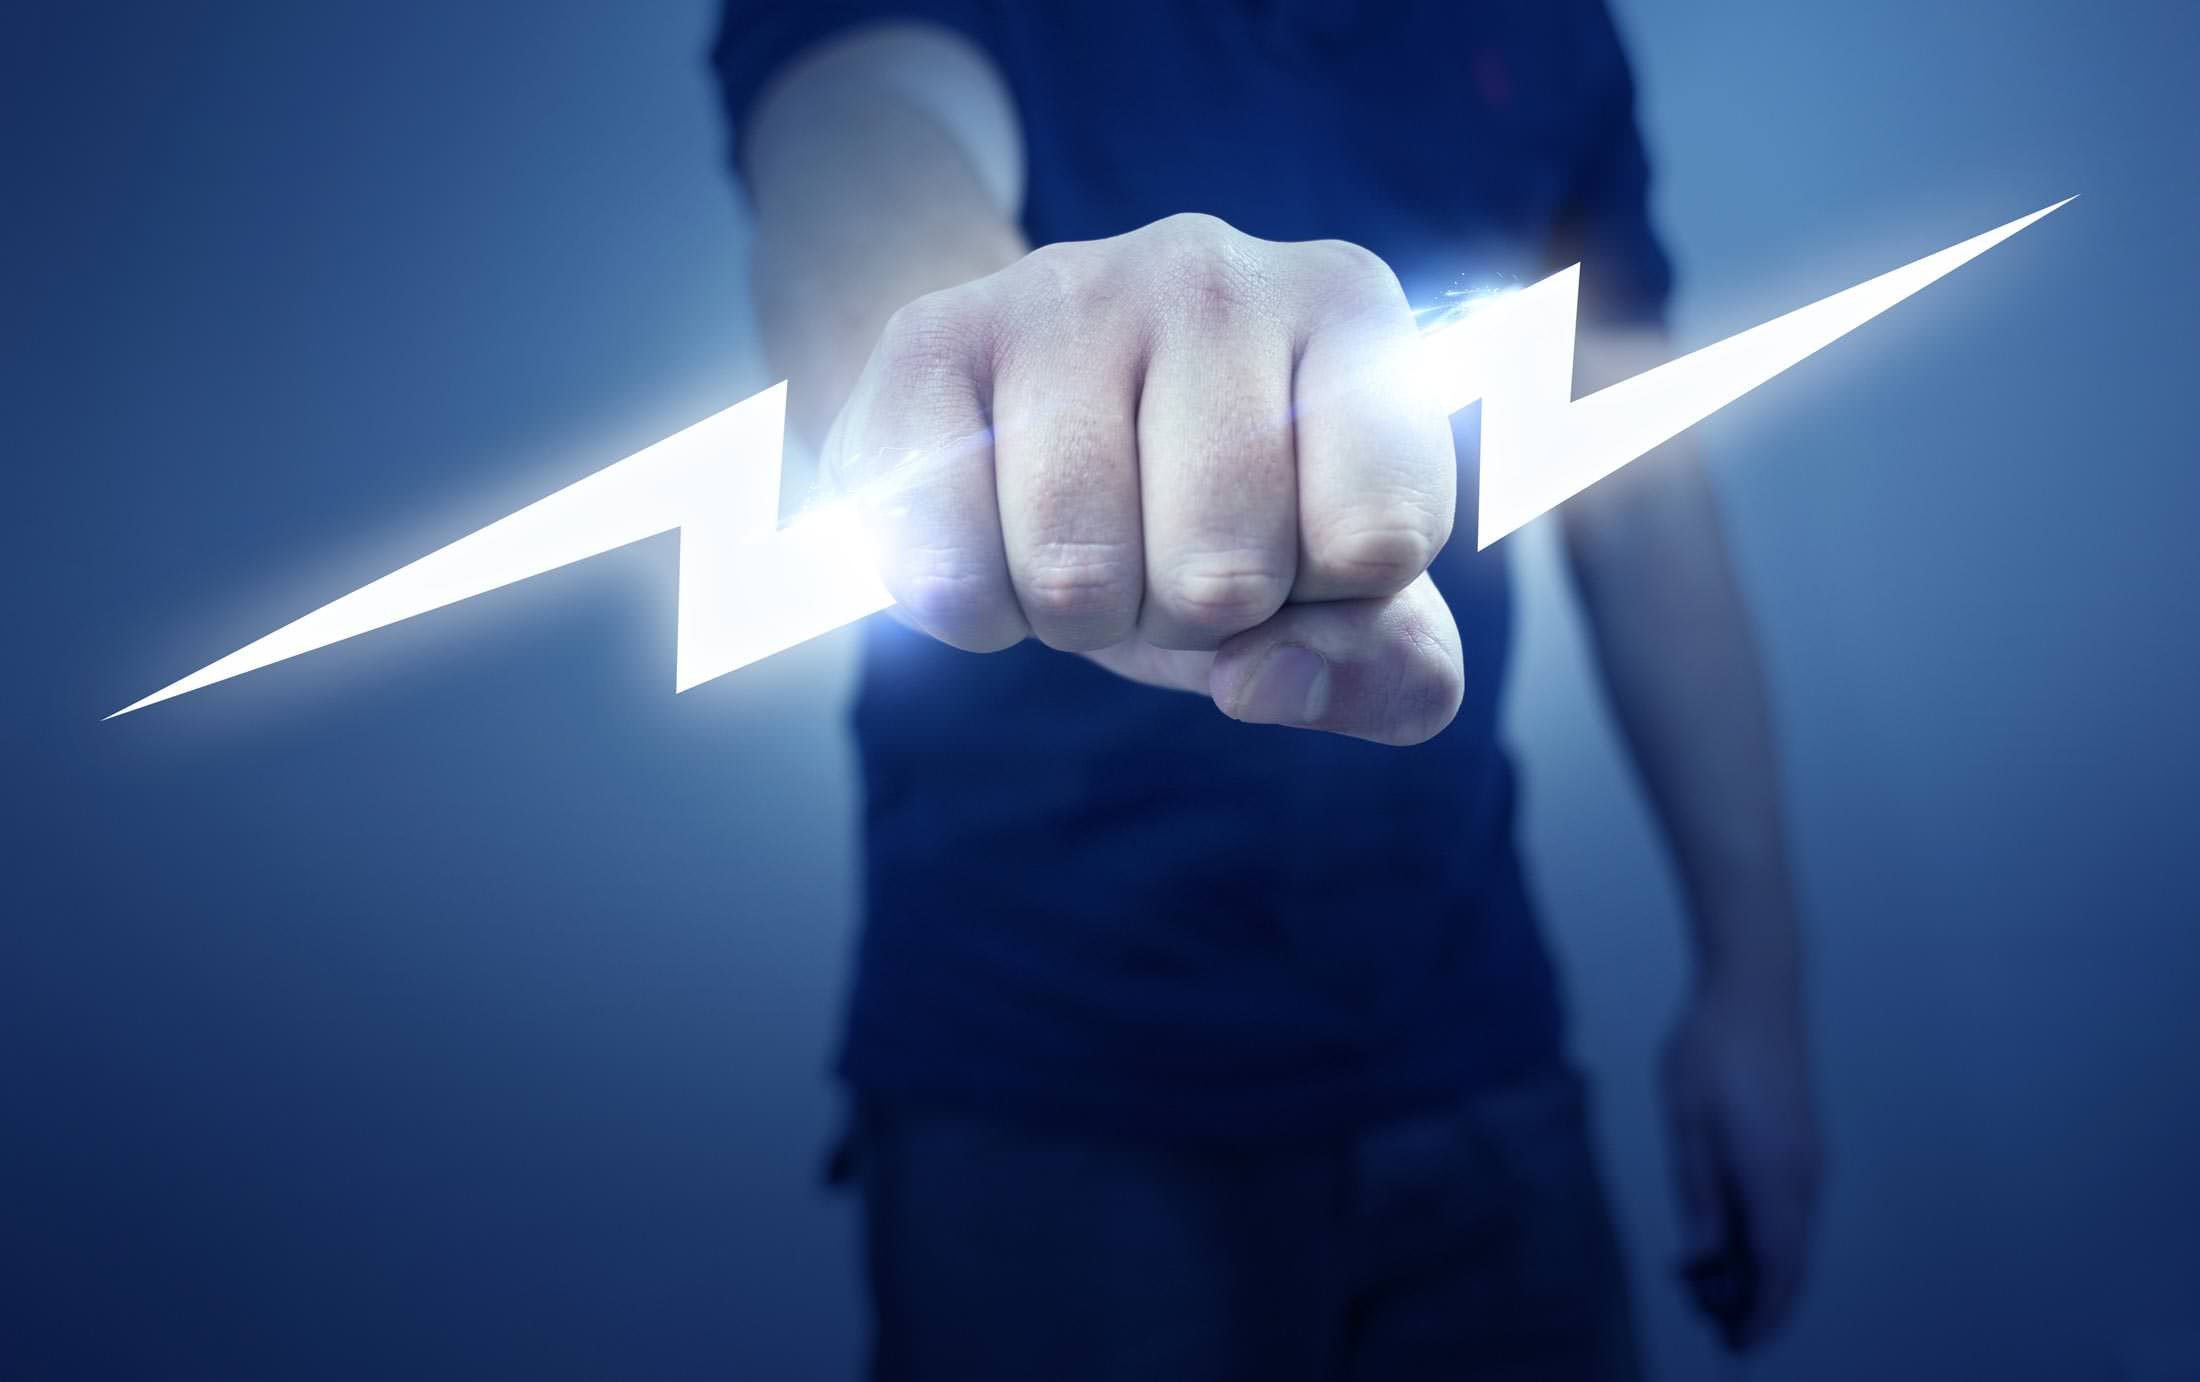
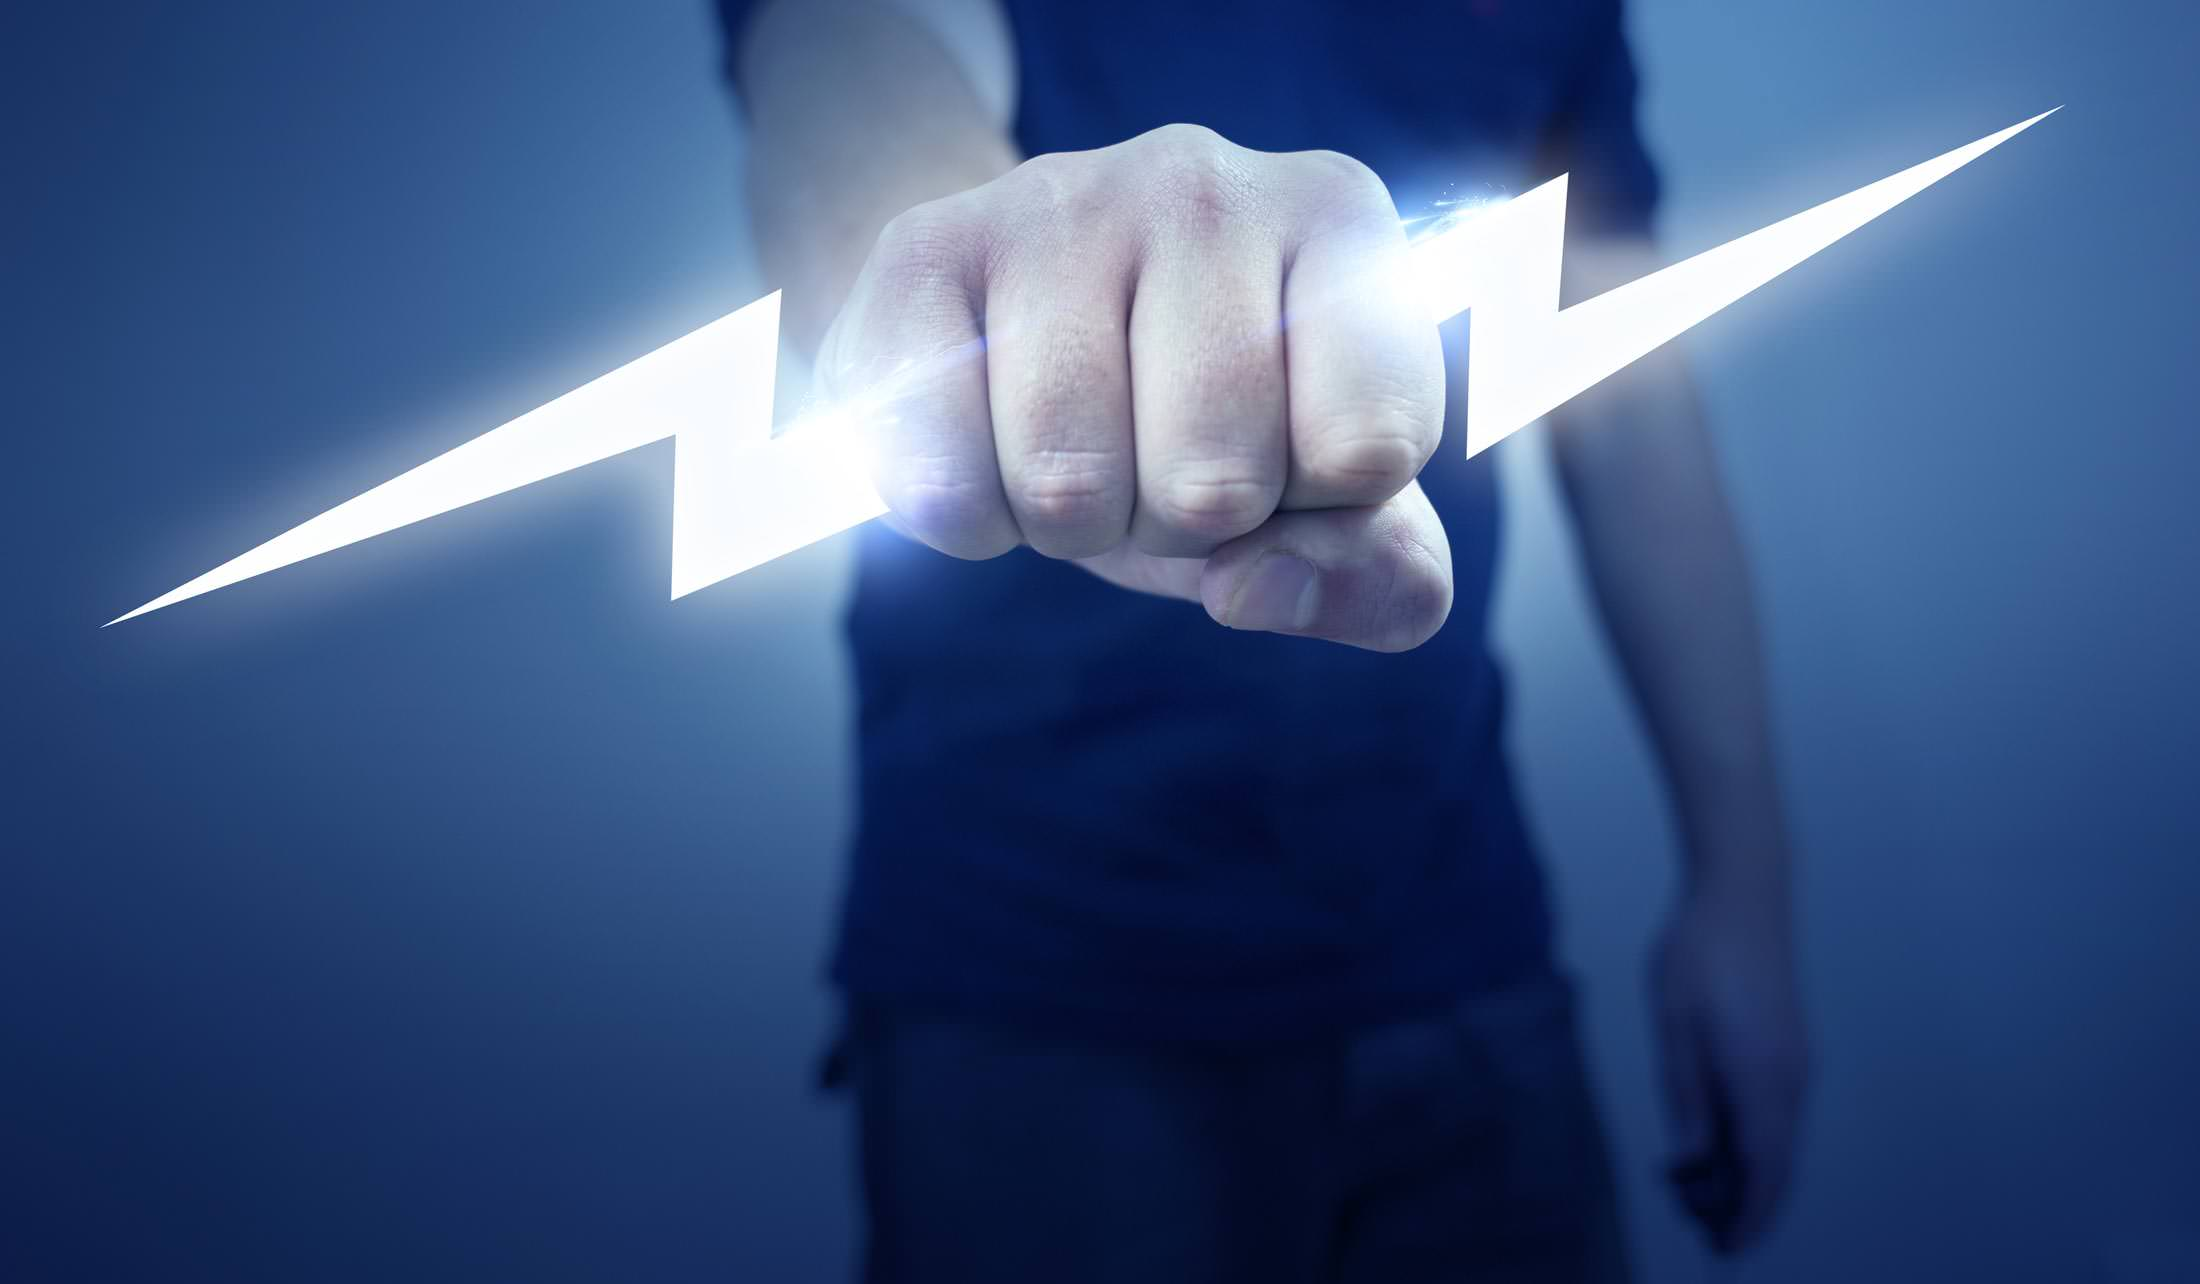
Crop bg image

diff --git a/style.css b/style.css
@@ -320,7 +320,7 @@ button:hover .icon {
 	#page {
 		position: relative;
 
-		margin-top: 60%;
+		margin-top: 56%;
 
 		-moz-box-shadow: 0 -1em 5em #000;
 		     box-shadow: 0 -1em 5em #000;
